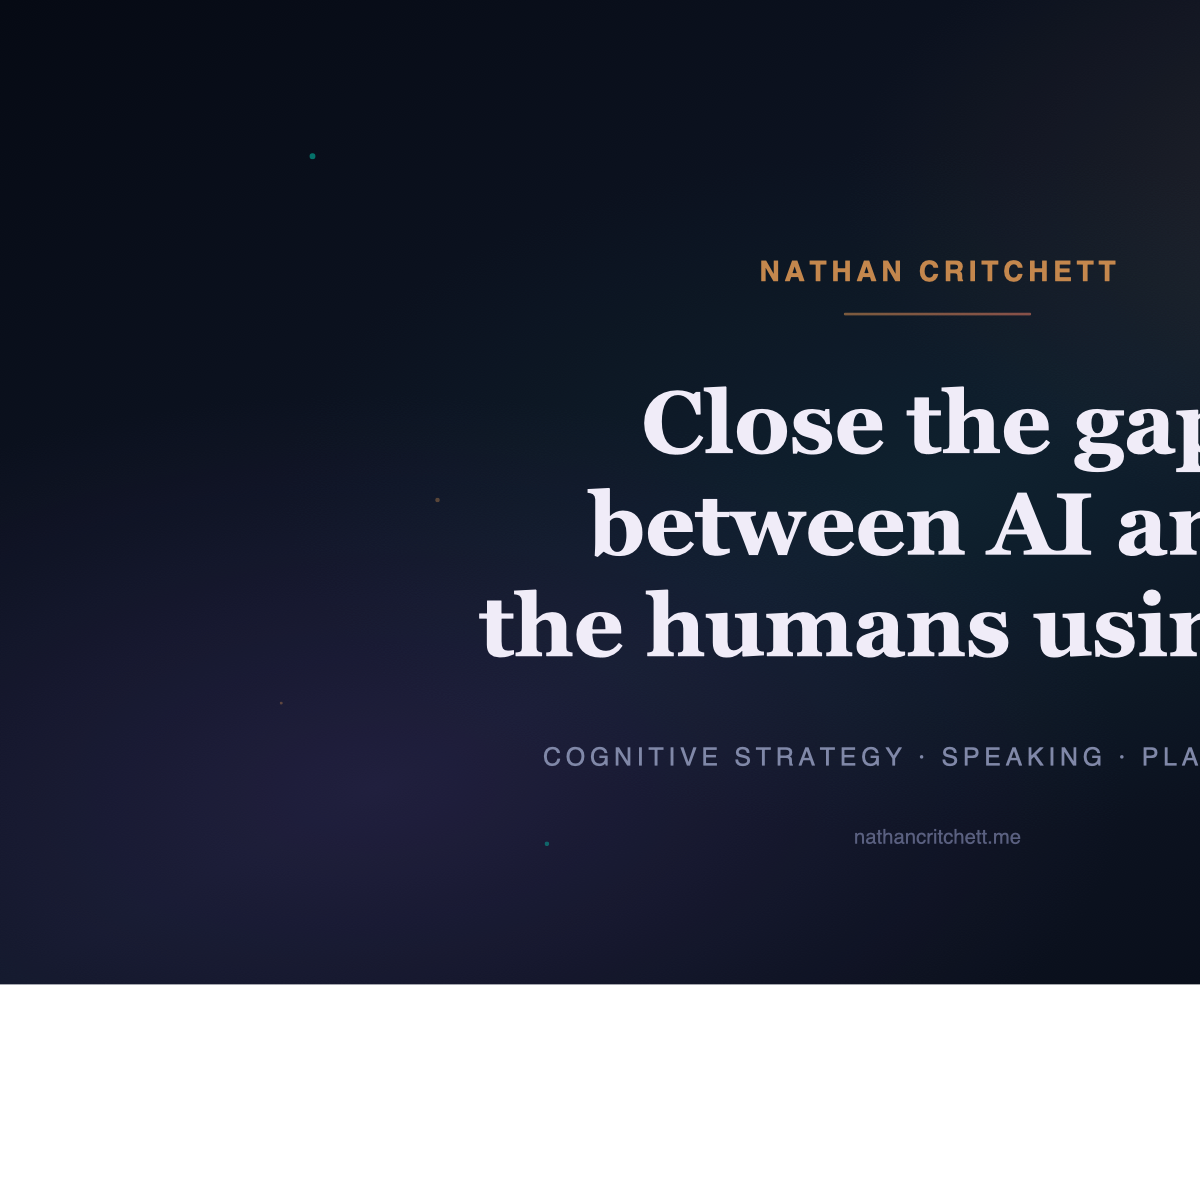
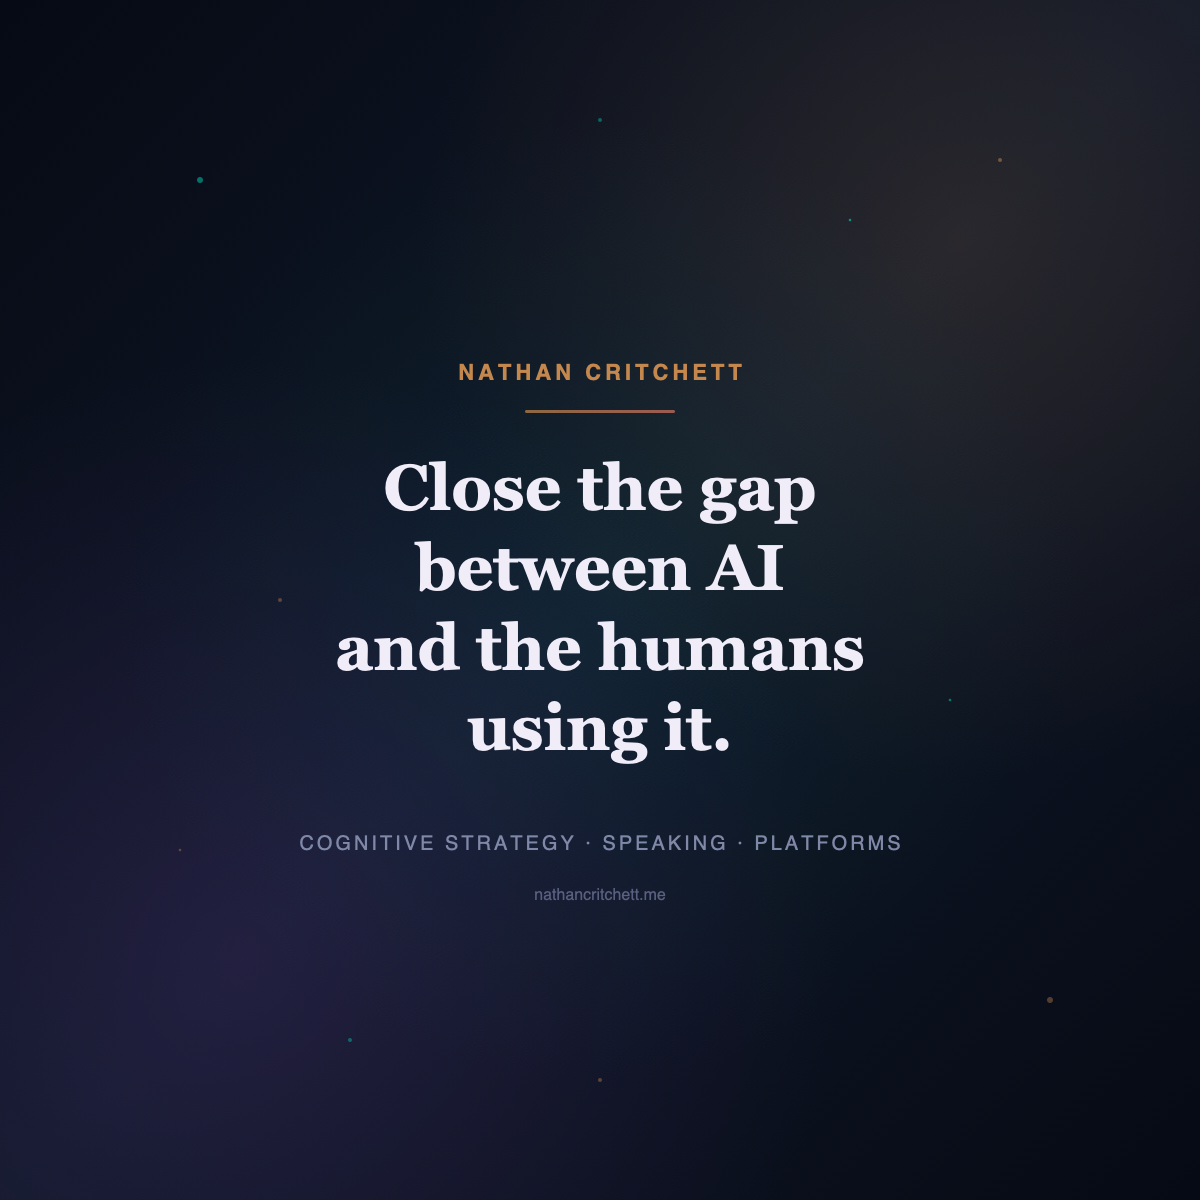
OG image: square 1200x1200 format, fully centered, cache bust v3

diff --git a/index.html b/index.html
@@ -11,15 +11,15 @@
   <meta property="og:url" content="https://nathancritchett.me/">
   <meta property="og:title" content="Nathan Critchett | Close the gap between AI and the humans using it.">
   <meta property="og:description" content="Cognitive strategy, speaking, and platform development. Extracting the expert context inside your teams and building systems that keep humans at the center.">
-  <meta property="og:image" content="https://nathancritchett.me/assets/og-image.png">
+  <meta property="og:image" content="https://nathancritchett.me/assets/og-image.png?v=3">
   <meta property="og:image:width" content="1200">
-  <meta property="og:image:height" content="630">
+  <meta property="og:image:height" content="1200">
 
   <!-- Twitter / X -->
   <meta name="twitter:card" content="summary_large_image">
   <meta name="twitter:title" content="Nathan Critchett | Close the gap between AI and the humans using it.">
   <meta name="twitter:description" content="Cognitive strategy, speaking, and platform development.">
-  <meta name="twitter:image" content="https://nathancritchett.me/assets/og-image.png">
+  <meta name="twitter:image" content="https://nathancritchett.me/assets/og-image.png?v=3">
 
   <!-- iMessage / SMS -->
   <meta name="apple-mobile-web-app-title" content="Nathan Critchett">
